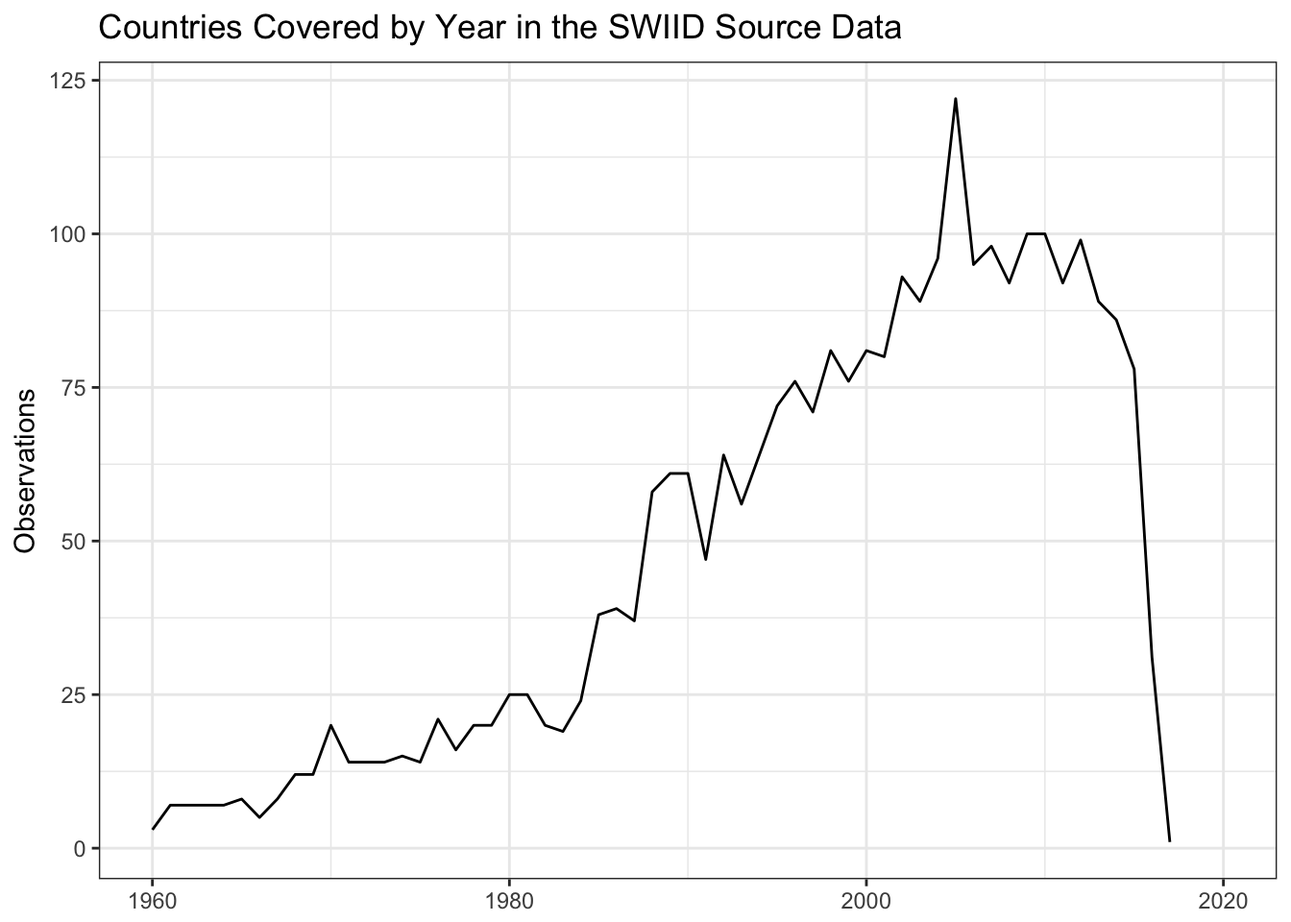
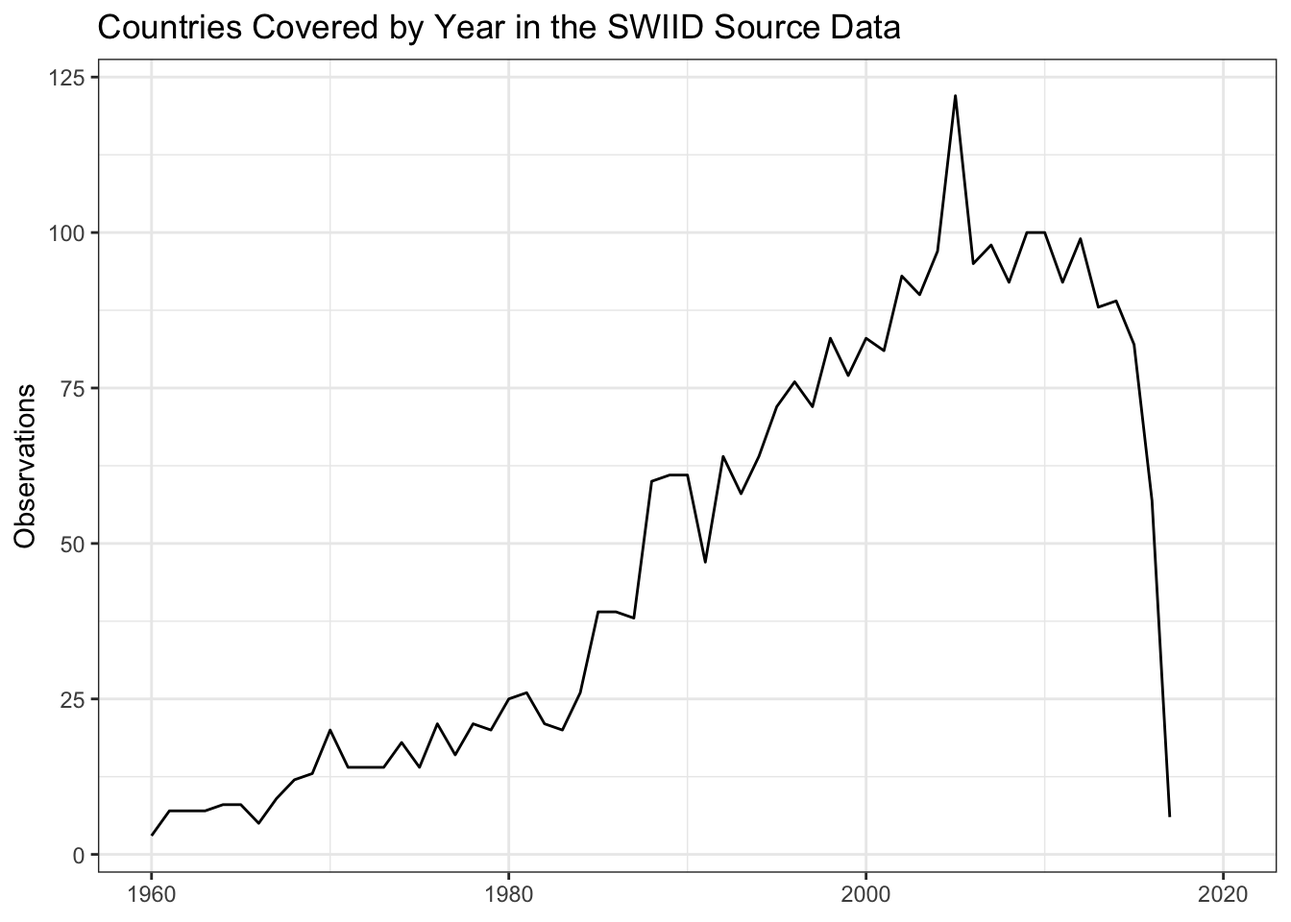
rebuilding site Tue Jul 24 14:44:43 CDT 2018

diff --git a/blog/index.html b/blog/index.html
@@ -161,6 +161,23 @@
 
   
 
+      <h3><a href="/blog/2018/07/24/swiid-version-7_0.html">SWIID Version 7.0 is available!</a></h3>
+      <h5>Tuesday, 24 July 2018</h5>
+    <div class="entry">
+        <p>Version 7.0 of the SWIID is <a href="http://fsolt.org/swiid/swiid_downloads.html">now available</a>! In addition to important behind-the-scenes improvements to the estimation routine, this new release:</p>
+<ul>
+<li><p>adds to <a href="https://github.com/fsolt/swiid/blob/master/data/swiid_source.csv">its source data</a> 623 new Ginis since version 6.2, including <a href="http://www.lisdatacenter.org/news-and-events/2018-summer-data-release/">newly available LIS data on Chile, Germany, Hungary, Poland, and Israel</a>; and</p></li>
+<li><p>includes estimates of market and disposable income inequality for 79 more country-years than version 6.2.</p></li>
+</ul>
+<p><img src="/post/2018-07-24-swiid-version-7-0-now-available_files/figure-html/unnamed-chunk-1-1.png" width="672" /></p>
+<p>For more details, you can check out the all the R and Stan code used to generate the estimates <a href="https://github.com/fsolt/swiid">in the SWIID GitHub repository</a>. As always, I encourage users of the SWIID to <a href="mailto:frederick-solt@uiowa.edu">email me</a> with their comments, questions, and suggestions.</p>
+
+    </div>
+    
+  
+
+  
+
       <h3><a href="/blog/2018/03/26/swiid-version-6_2.html">SWIID Version 6.2 is available!</a></h3>
       <h5>Monday, 26 March 2018</h5>
     <div class="entry">
@@ -206,14 +223,14 @@
 <p>This is the first in a series of posts on how I did it. It focuses on an unheralded but foundational part of the SWIID project, the source data. The basic idea behind the SWIID is to start with the data that has been most carefully picked over to ensure its utmost cross-national comparability: the data of the fantastic <a href="http://www.lisdatacenter.org">Luxembourg Income Study</a>. I’ve heard that generating a single country-year of LIS data takes an average of ten person-months of work. <em>That’s</em> dedication to comparability. ❤ But the flipside of maximizing comparability is that the LIS’s coverage is pretty sparse: it includes fewer than 300 country-years at last count.<a href="#fn3" class="footnoteRef" id="fnref3"><sup>3</sup></a> To address this weakness, the SWIID routine estimates the relationships between Gini indices based on the LIS and all of the other Ginis available for the same country-years, then uses these relationships to estimate what the LIS Gini <em>would be</em> in country-years not included in the LIS but available from other sources.<a href="#fn4" class="footnoteRef" id="fnref4"><sup>4</sup></a> The critical first step to making this work is getting <em>a lot</em> of other, non-LIS Ginis. I call these other Ginis the SWIID’s source data. Over the years, I and my research assistants built up a big spreadsheet of data collected from international organizations, national statistical offices, and scholarly books and articles. But it seemed like whenever I checked over these source data, I would find that at least a few figures had been recently revised, or their source was seemingly no longer available, or (worst of all) they evidently had been entered incorrectly. So again: it’s time to start over from scratch.</p>
 <p>To be included in the SWIID’s source data, observations need to encompass the entire population of a country without regard to age, location,<a href="#fn5" class="footnoteRef" id="fnref5"><sup>5</sup></a> or employment status.<a href="#fn6" class="footnoteRef" id="fnref6"><sup>6</sup></a> They need to have an identifiable welfare definition and equivalence scale (more on these below). Finally, because I want to be able to direct users to sources they can easily peruse themselves, observations need to be available online.<a href="#fn7" class="footnoteRef" id="fnref7"><sup>7</sup></a></p>
 <p>Hand-entering data is tedious and error-prone work, so I <a href="https://github.com/fsolt/swiid/blob/master/R/data_setup.R">automated as much of the process of data collection</a> as practicable. Most international organizations and a few national statistical offices use APIs that facilitate downloading their data, and often the <a href="https://twitter.com/search?q=%23rstats">#rstats</a> community has built R packages using these APIs to make the task even easier. I took as much advantage of these resources as possible.<a href="#fn8" class="footnoteRef" id="fnref8"><sup>8</sup></a> In the absence of an API, I scripted downloads of any available spreadsheets, preferring clean csv files to excel-formatted ones. If there was no spreadsheet, but data were available in pdf files, I automated downloading these files and then used <a href="http://thomasleeper.com">Thomas Leeper</a>’s <a href="https://github.com/ropensci/tabulizer"><code>tabulizer</code> package</a> to read the tables into R. In the absence of a file to download, I scripted the process of scraping the data from the web. Still, for a variety of reasons, a source’s data may have been consigned to being entered in a <a href="https://github.com/fsolt/swiid/blob/master/data-raw/article_data/fs_added_data.csv">separate spreadsheet</a>. Many sources contain just a handful or fewer observations, making the payoff to the often laborious process of data cleaning too small to justify the effort. Some sources–including most academic articles–are behind paywalls, making reproducibility a hassle anyway (though I still often used tabulizer to read the data from the pdf before cutting-and-pasting it into the spreadsheet). Some sources, like books, or the .doc file(!) generated annually by <a href="http://www.msd.govt.nz/about-msd-and-our-work/publications-resources/monitoring/household-incomes/index.html">New Zealand’s Ministry of Social Development</a>, cannot be read straight into R. Finally, at least <a href="https://wdronline.worldbank.org/bitstream/handle/10986/9269/wps4007.pdf?sequence=1">one source</a> contains crucial information encoded in the typeface(!!) of its tables, information lost when the tables are scanned into R. All of the entries in this spreadsheet were checked repeatedly for errors,<a href="#fn9" class="footnoteRef" id="fnref9"><sup>9</sup></a> and I excluded repeated reports of the exact same observation from different sources. In the end, I was able to automate the collection of more than three quarters of the source data and a much higher percentage of the series that will be updated or are subject to revision, facilitating incorporating these changes in future versions.</p>
-<p>The resulting dataset comprises 14230(!) Gini coefficients from 2780 country-years in 192 countries or territories, making the coverage of the SWIID source data broader than that of any other income inequality dataset. This isn’t surprising given that, with the exceptions of the <a href="https://www.wider.unu.edu/database/world-income-inequality-database-wiid34">WIID</a> (which isn’t drawn on at all anymore) and the <a href="https://www.gc.cuny.edu/Page-Elements/Academics-Research-Centers-Initiatives/Centers-and-Institutes/Stone-Center-on-Socio-Economic-Inequality/Core-Faculty,-Team,-and-Affiliated-LIS-Scholars/Branko-Milanovic/Datasets">All the Ginis</a> database (which isn’t drawn on much), the SWIID source data incorporates all of the data in these other datasets.</p>
+<p>The resulting dataset comprises 14853(!) Gini coefficients from 2844 country-years in 192 countries or territories, making the coverage of the SWIID source data broader than that of any other income inequality dataset. This isn’t surprising given that, with the exceptions of the <a href="https://www.wider.unu.edu/database/world-income-inequality-database-wiid34">WIID</a> (which isn’t drawn on at all anymore) and the <a href="https://www.gc.cuny.edu/Page-Elements/Academics-Research-Centers-Initiatives/Centers-and-Institutes/Stone-Center-on-Socio-Economic-Inequality/Core-Faculty,-Team,-and-Affiliated-LIS-Scholars/Branko-Milanovic/Datasets">All the Ginis</a> database (which isn’t drawn on much), the SWIID source data incorporates all of the data in these other datasets.</p>
 <p><img src="/post/2017-07-28-the-swiid-source-data_files/figure-html/data_by_coverage-1.png" width="672" /></p>
 <p>So, let’s check out what the source data look like. There is much more data available about the income distribution in some countries than in others. Which countries are most data-rich? The plot below shows the top dozen countries by the count of observations. Canada, by virtue of the excellent <a href="http://www.statcan.gc.ca">Statistics Canada</a> as well as longstanding membership in the OECD and LIS, has 733 observations, many more than any other country. The United Kingdom and United States are next, followed by an interesting mix countries from around the world with not surprisingly a sizable European representation. All are members of the LIS. On the other hand, eleven countries have only a single observation.</p>
 <p><img src="/post/2017-07-28-the-swiid-source-data_files/figure-html/obs_by_country-1.png" width="672" /></p>
 <p>As we’ll see in later posts in this series, observations for the same country in the same year, but with different welfare definitions and equivalence scales or from different sources, are important to generating the SWIID’s cross-nationally comparable estimates. Still, we might be interested to know which countries have the most coverage of the years in the SWIID’s current 57-year timeframe, from 1960 to 2016, because the SWIID’s inequality estimates for countries with fewer country-year observations will include more interpolated values, which in turn will have more uncertainty.</p>
 <p><img src="/post/2017-07-28-the-swiid-source-data_files/figure-html/years_by_country-1.png" width="672" /></p>
 <p>The source data includes observations for Sweden and the United Kingdom in all but one of these years and for the United States in all but six. Argentina—a country not included in the LIS—makes the top 12, with 41 country-year observations. The median country has observations in just eleven different country-years.</p>
-<p>We can also get a sense of the available inequality data by turning the question around and asking about coverage across countries over time. There are observations for 122 countries in 2005. Coverage is relatively good in the years from 2000 to 2014, at least 80 countries per year, before dropping to 78 countries for 2015 and just 31 for last year. Country coverage is pretty thin each year through the 1960s and 1970s and still isn’t all that great until the late 1980s.<a href="#fn10" class="footnoteRef" id="fnref10"><sup>10</sup></a></p>
+<p>We can also get a sense of the available inequality data by turning the question around and asking about coverage across countries over time. There are observations for 122 countries in 2005. Coverage is relatively good in the years from 2000 to 2014, at least 80 countries per year, before dropping to 82 countries for 2015 and just 57 for last year. Country coverage is pretty thin each year through the 1960s and 1970s and still isn’t all that great until the late 1980s.<a href="#fn10" class="footnoteRef" id="fnref10"><sup>10</sup></a></p>
 <p><img src="/post/2017-07-28-the-swiid-source-data_files/figure-html/countries_by_year-1.png" width="672" /></p>
 <p>Earlier I mentioned that to be included in the SWIID source data observations need to have an identifiable welfare definition and equivalence scale. A welfare definition is an answer to the question, this Gini measures the distribution of what? The four welfare definitions employed in the SWIID source data are market income, gross income, disposable income, and consumption. Market income is defined as amount of money coming into the household, excluding any government cash or near-cash benefits, the so-called ‘pre-tax, pre-transfer income.’<a href="#fn11" class="footnoteRef" id="fnref11"><sup>11</sup></a> Gross income is the sum of market income and government transfer payments; it is ‘pre-tax, post-transfer income.’ Disposable income, in turn, is gross income minus direct taxes: ‘post-tax, post-transfer income.’<a href="#fn12" class="footnoteRef" id="fnref12"><sup>12</sup></a> Consumption does not refer to the money coming into the household at all but rather to the money going out.<a href="#fn13" class="footnoteRef" id="fnref13"><sup>13</sup></a> In the source data, Ginis of disposable income are much more common than those using other welfare definitions.</p>
 <p><img src="/post/2017-07-28-the-swiid-source-data_files/figure-html/obs_by_wd-1.png" width="672" /></p>
@@ -632,8 +649,6 @@ di &quot;N = `cases'&quot;
 
     </div>
     
-  
-
   
 
   

diff --git a/blog/2017/07/28/the-swiid-source-data.html b/blog/2017/07/28/the-swiid-source-data.html
@@ -165,14 +165,14 @@
 <p>This is the first in a series of posts on how I did it. It focuses on an unheralded but foundational part of the SWIID project, the source data. The basic idea behind the SWIID is to start with the data that has been most carefully picked over to ensure its utmost cross-national comparability: the data of the fantastic <a href="http://www.lisdatacenter.org">Luxembourg Income Study</a>. I’ve heard that generating a single country-year of LIS data takes an average of ten person-months of work. <em>That’s</em> dedication to comparability. ❤ But the flipside of maximizing comparability is that the LIS’s coverage is pretty sparse: it includes fewer than 300 country-years at last count.<a href="#fn3" class="footnoteRef" id="fnref3"><sup>3</sup></a> To address this weakness, the SWIID routine estimates the relationships between Gini indices based on the LIS and all of the other Ginis available for the same country-years, then uses these relationships to estimate what the LIS Gini <em>would be</em> in country-years not included in the LIS but available from other sources.<a href="#fn4" class="footnoteRef" id="fnref4"><sup>4</sup></a> The critical first step to making this work is getting <em>a lot</em> of other, non-LIS Ginis. I call these other Ginis the SWIID’s source data. Over the years, I and my research assistants built up a big spreadsheet of data collected from international organizations, national statistical offices, and scholarly books and articles. But it seemed like whenever I checked over these source data, I would find that at least a few figures had been recently revised, or their source was seemingly no longer available, or (worst of all) they evidently had been entered incorrectly. So again: it’s time to start over from scratch.</p>
 <p>To be included in the SWIID’s source data, observations need to encompass the entire population of a country without regard to age, location,<a href="#fn5" class="footnoteRef" id="fnref5"><sup>5</sup></a> or employment status.<a href="#fn6" class="footnoteRef" id="fnref6"><sup>6</sup></a> They need to have an identifiable welfare definition and equivalence scale (more on these below). Finally, because I want to be able to direct users to sources they can easily peruse themselves, observations need to be available online.<a href="#fn7" class="footnoteRef" id="fnref7"><sup>7</sup></a></p>
 <p>Hand-entering data is tedious and error-prone work, so I <a href="https://github.com/fsolt/swiid/blob/master/R/data_setup.R">automated as much of the process of data collection</a> as practicable. Most international organizations and a few national statistical offices use APIs that facilitate downloading their data, and often the <a href="https://twitter.com/search?q=%23rstats">#rstats</a> community has built R packages using these APIs to make the task even easier. I took as much advantage of these resources as possible.<a href="#fn8" class="footnoteRef" id="fnref8"><sup>8</sup></a> In the absence of an API, I scripted downloads of any available spreadsheets, preferring clean csv files to excel-formatted ones. If there was no spreadsheet, but data were available in pdf files, I automated downloading these files and then used <a href="http://thomasleeper.com">Thomas Leeper</a>’s <a href="https://github.com/ropensci/tabulizer"><code>tabulizer</code> package</a> to read the tables into R. In the absence of a file to download, I scripted the process of scraping the data from the web. Still, for a variety of reasons, a source’s data may have been consigned to being entered in a <a href="https://github.com/fsolt/swiid/blob/master/data-raw/article_data/fs_added_data.csv">separate spreadsheet</a>. Many sources contain just a handful or fewer observations, making the payoff to the often laborious process of data cleaning too small to justify the effort. Some sources–including most academic articles–are behind paywalls, making reproducibility a hassle anyway (though I still often used tabulizer to read the data from the pdf before cutting-and-pasting it into the spreadsheet). Some sources, like books, or the .doc file(!) generated annually by <a href="http://www.msd.govt.nz/about-msd-and-our-work/publications-resources/monitoring/household-incomes/index.html">New Zealand’s Ministry of Social Development</a>, cannot be read straight into R. Finally, at least <a href="https://wdronline.worldbank.org/bitstream/handle/10986/9269/wps4007.pdf?sequence=1">one source</a> contains crucial information encoded in the typeface(!!) of its tables, information lost when the tables are scanned into R. All of the entries in this spreadsheet were checked repeatedly for errors,<a href="#fn9" class="footnoteRef" id="fnref9"><sup>9</sup></a> and I excluded repeated reports of the exact same observation from different sources. In the end, I was able to automate the collection of more than three quarters of the source data and a much higher percentage of the series that will be updated or are subject to revision, facilitating incorporating these changes in future versions.</p>
-<p>The resulting dataset comprises 14230(!) Gini coefficients from 2780 country-years in 192 countries or territories, making the coverage of the SWIID source data broader than that of any other income inequality dataset. This isn’t surprising given that, with the exceptions of the <a href="https://www.wider.unu.edu/database/world-income-inequality-database-wiid34">WIID</a> (which isn’t drawn on at all anymore) and the <a href="https://www.gc.cuny.edu/Page-Elements/Academics-Research-Centers-Initiatives/Centers-and-Institutes/Stone-Center-on-Socio-Economic-Inequality/Core-Faculty,-Team,-and-Affiliated-LIS-Scholars/Branko-Milanovic/Datasets">All the Ginis</a> database (which isn’t drawn on much), the SWIID source data incorporates all of the data in these other datasets.</p>
+<p>The resulting dataset comprises 14853(!) Gini coefficients from 2844 country-years in 192 countries or territories, making the coverage of the SWIID source data broader than that of any other income inequality dataset. This isn’t surprising given that, with the exceptions of the <a href="https://www.wider.unu.edu/database/world-income-inequality-database-wiid34">WIID</a> (which isn’t drawn on at all anymore) and the <a href="https://www.gc.cuny.edu/Page-Elements/Academics-Research-Centers-Initiatives/Centers-and-Institutes/Stone-Center-on-Socio-Economic-Inequality/Core-Faculty,-Team,-and-Affiliated-LIS-Scholars/Branko-Milanovic/Datasets">All the Ginis</a> database (which isn’t drawn on much), the SWIID source data incorporates all of the data in these other datasets.</p>
 <p><img src="/post/2017-07-28-the-swiid-source-data_files/figure-html/data_by_coverage-1.png" width="672" /></p>
 <p>So, let’s check out what the source data look like. There is much more data available about the income distribution in some countries than in others. Which countries are most data-rich? The plot below shows the top dozen countries by the count of observations. Canada, by virtue of the excellent <a href="http://www.statcan.gc.ca">Statistics Canada</a> as well as longstanding membership in the OECD and LIS, has 733 observations, many more than any other country. The United Kingdom and United States are next, followed by an interesting mix countries from around the world with not surprisingly a sizable European representation. All are members of the LIS. On the other hand, eleven countries have only a single observation.</p>
 <p><img src="/post/2017-07-28-the-swiid-source-data_files/figure-html/obs_by_country-1.png" width="672" /></p>
 <p>As we’ll see in later posts in this series, observations for the same country in the same year, but with different welfare definitions and equivalence scales or from different sources, are important to generating the SWIID’s cross-nationally comparable estimates. Still, we might be interested to know which countries have the most coverage of the years in the SWIID’s current 57-year timeframe, from 1960 to 2016, because the SWIID’s inequality estimates for countries with fewer country-year observations will include more interpolated values, which in turn will have more uncertainty.</p>
 <p><img src="/post/2017-07-28-the-swiid-source-data_files/figure-html/years_by_country-1.png" width="672" /></p>
 <p>The source data includes observations for Sweden and the United Kingdom in all but one of these years and for the United States in all but six. Argentina—a country not included in the LIS—makes the top 12, with 41 country-year observations. The median country has observations in just eleven different country-years.</p>
-<p>We can also get a sense of the available inequality data by turning the question around and asking about coverage across countries over time. There are observations for 122 countries in 2005. Coverage is relatively good in the years from 2000 to 2014, at least 80 countries per year, before dropping to 78 countries for 2015 and just 31 for last year. Country coverage is pretty thin each year through the 1960s and 1970s and still isn’t all that great until the late 1980s.<a href="#fn10" class="footnoteRef" id="fnref10"><sup>10</sup></a></p>
+<p>We can also get a sense of the available inequality data by turning the question around and asking about coverage across countries over time. There are observations for 122 countries in 2005. Coverage is relatively good in the years from 2000 to 2014, at least 80 countries per year, before dropping to 82 countries for 2015 and just 57 for last year. Country coverage is pretty thin each year through the 1960s and 1970s and still isn’t all that great until the late 1980s.<a href="#fn10" class="footnoteRef" id="fnref10"><sup>10</sup></a></p>
 <p><img src="/post/2017-07-28-the-swiid-source-data_files/figure-html/countries_by_year-1.png" width="672" /></p>
 <p>Earlier I mentioned that to be included in the SWIID source data observations need to have an identifiable welfare definition and equivalence scale. A welfare definition is an answer to the question, this Gini measures the distribution of what? The four welfare definitions employed in the SWIID source data are market income, gross income, disposable income, and consumption. Market income is defined as amount of money coming into the household, excluding any government cash or near-cash benefits, the so-called ‘pre-tax, pre-transfer income.’<a href="#fn11" class="footnoteRef" id="fnref11"><sup>11</sup></a> Gross income is the sum of market income and government transfer payments; it is ‘pre-tax, post-transfer income.’ Disposable income, in turn, is gross income minus direct taxes: ‘post-tax, post-transfer income.’<a href="#fn12" class="footnoteRef" id="fnref12"><sup>12</sup></a> Consumption does not refer to the money coming into the household at all but rather to the money going out.<a href="#fn13" class="footnoteRef" id="fnref13"><sup>13</sup></a> In the source data, Ginis of disposable income are much more common than those using other welfare definitions.</p>
 <p><img src="/post/2017-07-28-the-swiid-source-data_files/figure-html/obs_by_wd-1.png" width="672" /></p>

diff --git a/blog/2018/07/24/swiid-version-7_0.html b/blog/2018/07/24/swiid-version-7_0.html
@@ -4,16 +4,16 @@
 
   
   <meta charset="utf-8">
-  <title> Swiid &middot; Frederick Solt </title>
+  <title> SWIID Version 7.0 is available! &middot; Frederick Solt </title>
   
   
-    <title>Swiid &middot; Frederick Solt</title>
-    <meta property="og:title" content="Swiid &middot; Frederick Solt">
+    <title>SWIID Version 7.0 is available! &middot; Frederick Solt</title>
+    <meta property="og:title" content="SWIID Version 7.0 is available! &middot; Frederick Solt">
     <meta property="og:type" content="article">
     
       
-      <meta name="twitter:card" content="summary">
-      <meta name="twitter:image" content="http://fsolt.org/img/fsolt.jpeg">
+      <meta name="twitter:card" content="summary_large_image">
+      <meta name="twitter:image" content="http://fsolt.org/img/swiid_v70.png" >
       
       
       
@@ -156,105 +156,19 @@
         <div class="col-md-8" role="main">
 
 
+<h3>SWIID Version 7.0 is available!</h3>
+<span class="date">Tuesday, 24 July 2018</span>
 
-<h1>Swiid</h1>
-
-
-
-
+<div class="post">
+  <p>Version 7.0 of the SWIID is <a href="http://fsolt.org/swiid/swiid_downloads.html">now available</a>! In addition to important behind-the-scenes improvements to the estimation routine, this new release:</p>
 <ul>
-  
-  <li>
-    <span class="date">2018/07/24</span>
-    <a href="/blog/2018/07/24/swiid-version-7_0.html">SWIID Version 7.0 is available!</a>
-  </li>
-  
-  <li>
-    <span class="date">2018/03/26</span>
-    <a href="/blog/2018/03/26/swiid-version-6_2.html">SWIID Version 6.2 is available!</a>
-  </li>
-  
-  <li>
-    <span class="date">2017/10/27</span>
-    <a href="/blog/2017/10/27/swiid-version-6_1.html">SWIID Version 6.1 is available!</a>
-  </li>
-  
-  <li>
-    <span class="date">2017/07/28</span>
-    <a href="/blog/2017/07/28/the-swiid-source-data.html">The SWIID Source Data</a>
-  </li>
-  
-  <li>
-    <span class="date">2017/07/27</span>
-    <a href="/blog/2017/07/27/swiid-version-6_0.html">SWIID Version 6.0 is available!</a>
-  </li>
-  
-  <li>
-    <span class="date">2016/07/21</span>
-    <a href="/blog/2016/07/21/swiid-version-5_1.html">SWIID Version 5.1 is available!</a>
-  </li>
-  
-  <li>
-    <span class="date">2015/08/10</span>
-    <a href="/blog/2015/08/10/nsf-swiid.html">SWIID Wins NSF Support!</a>
-  </li>
-  
-  <li>
-    <span class="date">2015/03/27</span>
-    <a href="/blog/2015/03/27/imf-china.html">Inequality in China</a>
-  </li>
-  
-  <li>
-    <span class="date">2014/10/02</span>
-    <a href="/blog/2014/10/02/swiid-version-5_0.html">SWIID Version 5.0 is available!</a>
-  </li>
-  
-  <li>
-    <span class="date">2013/09/30</span>
-    <a href="/blog/2013/09/30/swiid-version-4_0.html">SWIID Version 4.0 is available!</a>
-  </li>
-  
-  <li>
-    <span class="date">2013/09/29</span>
-    <a href="/blog/2013/09/29/my-un-talk.html">My talk at the UN</a>
-  </li>
-  
-  <li>
-    <span class="date">2012/01/02</span>
-    <a href="/blog/2012/01/02/swiid-version-3_1.html">SWIID Version 3.1 now available!</a>
-  </li>
-  
-  <li>
-    <span class="date">2010/07/11</span>
-    <a href="/blog/2010/07/11/swiid-version-3_0.html">SWIID Version 3.0 is now available!</a>
-  </li>
-  
-  <li>
-    <span class="date">2010/06/20</span>
-    <a href="/blog/2010/06/20/using-swiid-ses.html">Using the SWIID Standard Errors</a>
-  </li>
-  
-  <li>
-    <span class="date">2009/07/31</span>
-    <a href="/blog/2009/07/31/swiid-version-2_0.html">SWIID Version 2.0</a>
-  </li>
-  
-  <li>
-    <span class="date">2008/10/12</span>
-    <a href="/blog/2008/10/12/swiid-version-1_1.html">SWIID Version 1.1</a>
-  </li>
-  
-  <li>
-    <span class="date">2008/09/13</span>
-    <a href="/blog/2008/09/13/swiid-version-1_0.html">SWIID Version 1.0</a>
-  </li>
-  
-  <li>
-    <span class="date">2008/08/05</span>
-    <a href="/blog/2008/08/05/swiid-version-0_9.html">SWIID Version 0.9</a>
-  </li>
-  
+<li><p>adds to <a href="https://github.com/fsolt/swiid/blob/master/data/swiid_source.csv">its source data</a> 623 new Ginis since version 6.2, including <a href="http://www.lisdatacenter.org/news-and-events/2018-summer-data-release/">newly available LIS data on Chile, Germany, Hungary, Poland, and Israel</a>; and</p></li>
+<li><p>includes estimates of market and disposable income inequality for 79 more country-years than version 6.2.</p></li>
 </ul>
+<p><img src="/post/2018-07-24-swiid-version-7-0-now-available_files/figure-html/unnamed-chunk-1-1.png" width="672" /></p>
+<p>For more details, you can check out the all the R and Stan code used to generate the estimates <a href="https://github.com/fsolt/swiid">in the SWIID GitHub repository</a>. As always, I encourage users of the SWIID to <a href="mailto:frederick-solt@uiowa.edu">email me</a> with their comments, questions, and suggestions.</p>
+
+</div>
 
         </div>
       </div>

diff --git a/index.html b/index.html
@@ -1,10 +1,11 @@
 <!DOCTYPE html>
 <html lang="en">
   <head>
+	<meta name="generator" content="Hugo 0.31.1" />
 
   
   <meta charset="utf-8">
-  <title> Home &middot; Frederick Solt </title>
+  <title> Frederick Solt &middot; Frederick Solt </title>
   
   
     <title>Frederick Solt</title>
@@ -152,11 +153,15 @@
 
 
 <div class="page">
-  
+
+
+    
 
 <h2 id="about">About</h2>
 
 <p>I am an associate professor in the <a href="http://clas.uiowa.edu/polisci/">Department of Political Science</a> at the <a href="http://www.uiowa.edu">University of Iowa</a>.  My interests include comparative political behavior and political economy from a cross-national perspective; I am also interested in computational methods for cross-national research.  Much of my work focuses on understanding how&mdash;and why&mdash;the extent of economic inequality in a country shapes the attitudes and behavior of the people who live there.  I also created and maintain the Standardized World Income Inequality Database (SWIID), which provides the most-comparable data available on income inequality for broadly cross-national research.  Please use the links at left to find out more about the SWIID, my research on the consequences of economic inequality, my work on other topics in comparative politics and political sociology, the courses I teach, my published software, blogged updates and working notes, and my CV.</p>
+
+
 
 </div>
 
@@ -184,11 +189,6 @@ href="http://statcounter.com/shopify/" target="_blank"><img
 class="statcounter"
 src="http://c.statcounter.com/1915099/0/da58688a/1/"
 alt="shopify analytics ecommerce
-tracking"></a></div></noscript>
-
-  </body>
-</html>
-ics ecommerce
 tracking"></a></div></noscript>
 
   </body>

diff --git a/post.html b/post.html
@@ -165,6 +165,11 @@
 <ul>
   
   <li>
+    <span class="date">2018/07/24</span>
+    <a href="/blog/2018/07/24/swiid-version-7_0.html">SWIID Version 7.0 is available!</a>
+  </li>
+  
+  <li>
     <span class="date">2018/03/26</span>
     <a href="/blog/2018/03/26/swiid-version-6_2.html">SWIID Version 6.2 is available!</a>
   </li>
@@ -317,11 +322,6 @@
   <li>
     <span class="date">2008/08/05</span>
     <a href="/blog/2008/08/05/swiid-version-0_9.html">SWIID Version 0.9</a>
-  </li>
-  
-  <li>
-    <span class="date">0001/01/01</span>
-    <a href="/blog/1/01/01.html"></a>
   </li>
   
 </ul>

diff --git a/swiid/swiid_faq.html b/swiid/swiid_faq.html
@@ -177,6 +177,8 @@
     
   
     
+  
+    
 
         <h3><a href="/blog/2015/10/06/download-swiid.html">Wait, how can I download the data again?</a></h3>
       <div class="entry">
@@ -444,11 +446,11 @@ merge 1:1 country year using &quot;my_data.dta&quot;, keep(match master)
   
     
   
-    
-  
   
 <br />
 <h3>The SWIID Data</h3>
+  
+    
   
     
   
@@ -514,8 +516,6 @@ merge 1:1 country year using &quot;my_data.dta&quot;, keep(match master)
 
       </div>
 
-    
-  
     
   
     

diff --git a/tags/note.html b/tags/note.html
@@ -165,6 +165,11 @@
 <ul>
   
   <li>
+    <span class="date">2018/07/24</span>
+    <a href="/blog/2018/07/24/swiid-version-7_0.html">SWIID Version 7.0 is available!</a>
+  </li>
+  
+  <li>
     <span class="date">2018/03/26</span>
     <a href="/blog/2018/03/26/swiid-version-6_2.html">SWIID Version 6.2 is available!</a>
   </li>

diff --git a/tags/r.html b/tags/r.html
@@ -165,6 +165,11 @@
 <ul>
   
   <li>
+    <span class="date">2018/07/24</span>
+    <a href="/blog/2018/07/24/swiid-version-7_0.html">SWIID Version 7.0 is available!</a>
+  </li>
+  
+  <li>
     <span class="date">2018/03/26</span>
     <a href="/blog/2018/03/26/swiid-version-6_2.html">SWIID Version 6.2 is available!</a>
   </li>

diff --git a/tags.html b/tags.html
@@ -185,7 +185,7 @@
     <a href="/tags/note">
       note
     </a>
-    (12)
+    (13)
   </li>
   
   <li>
@@ -199,7 +199,7 @@
     <a href="/tags/r">
       r
     </a>
-    (8)
+    (9)
   </li>
   
   <li>
@@ -220,7 +220,7 @@
     <a href="/tags/swiid">
       swiid
     </a>
-    (17)
+    (18)
   </li>
   
   <li>
